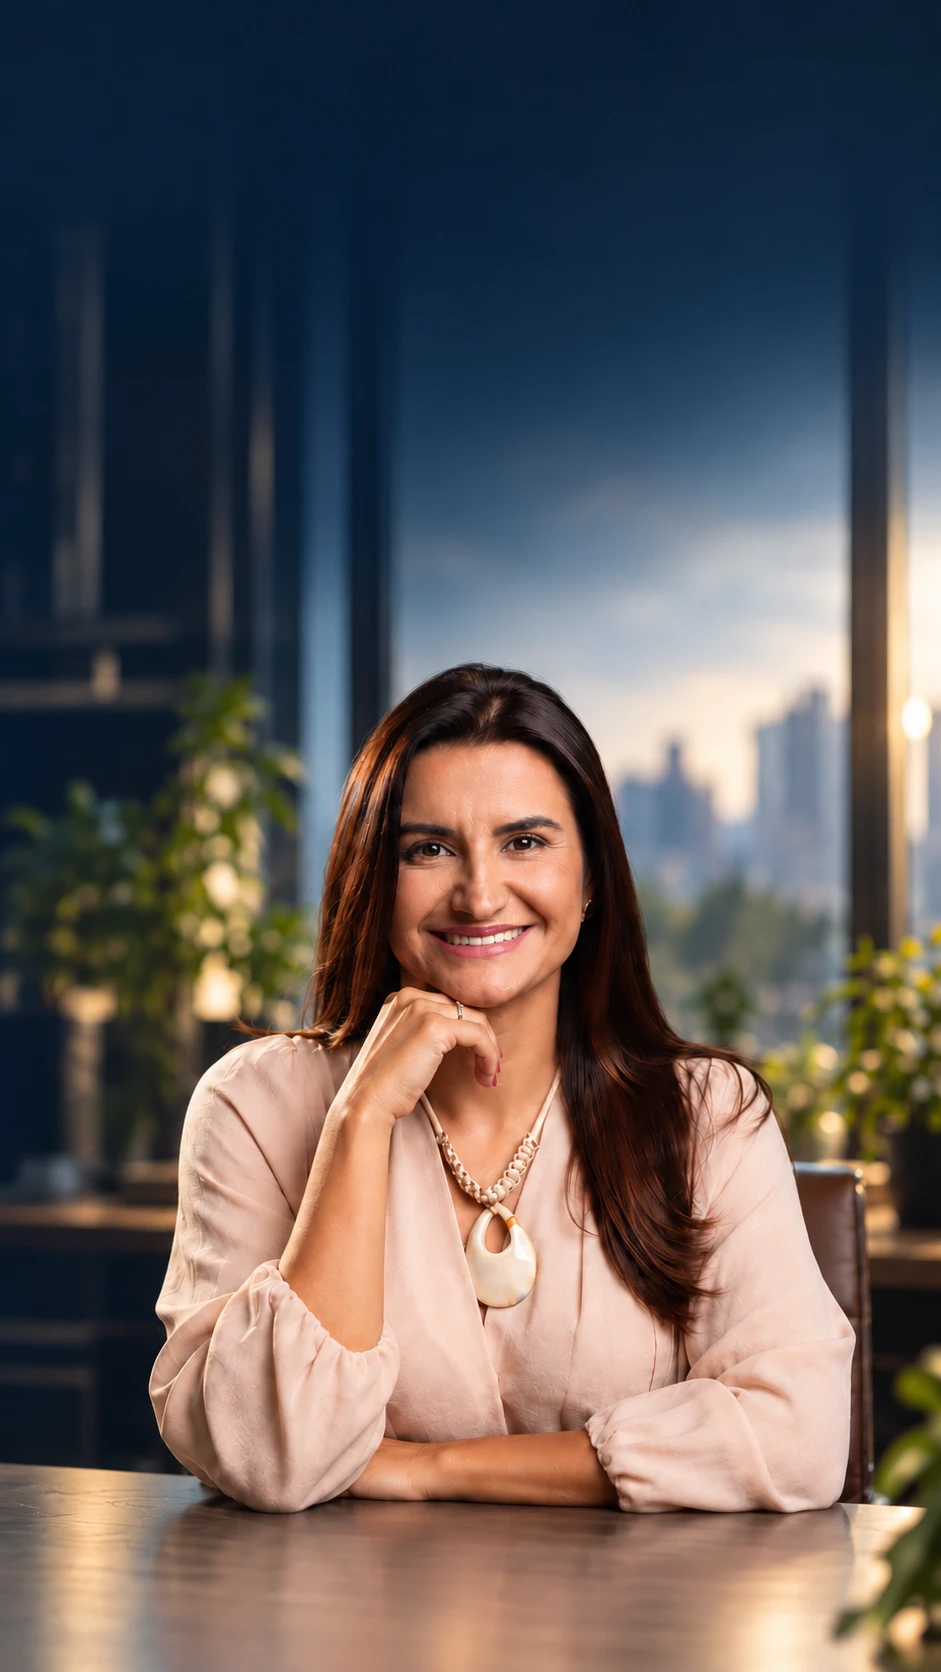
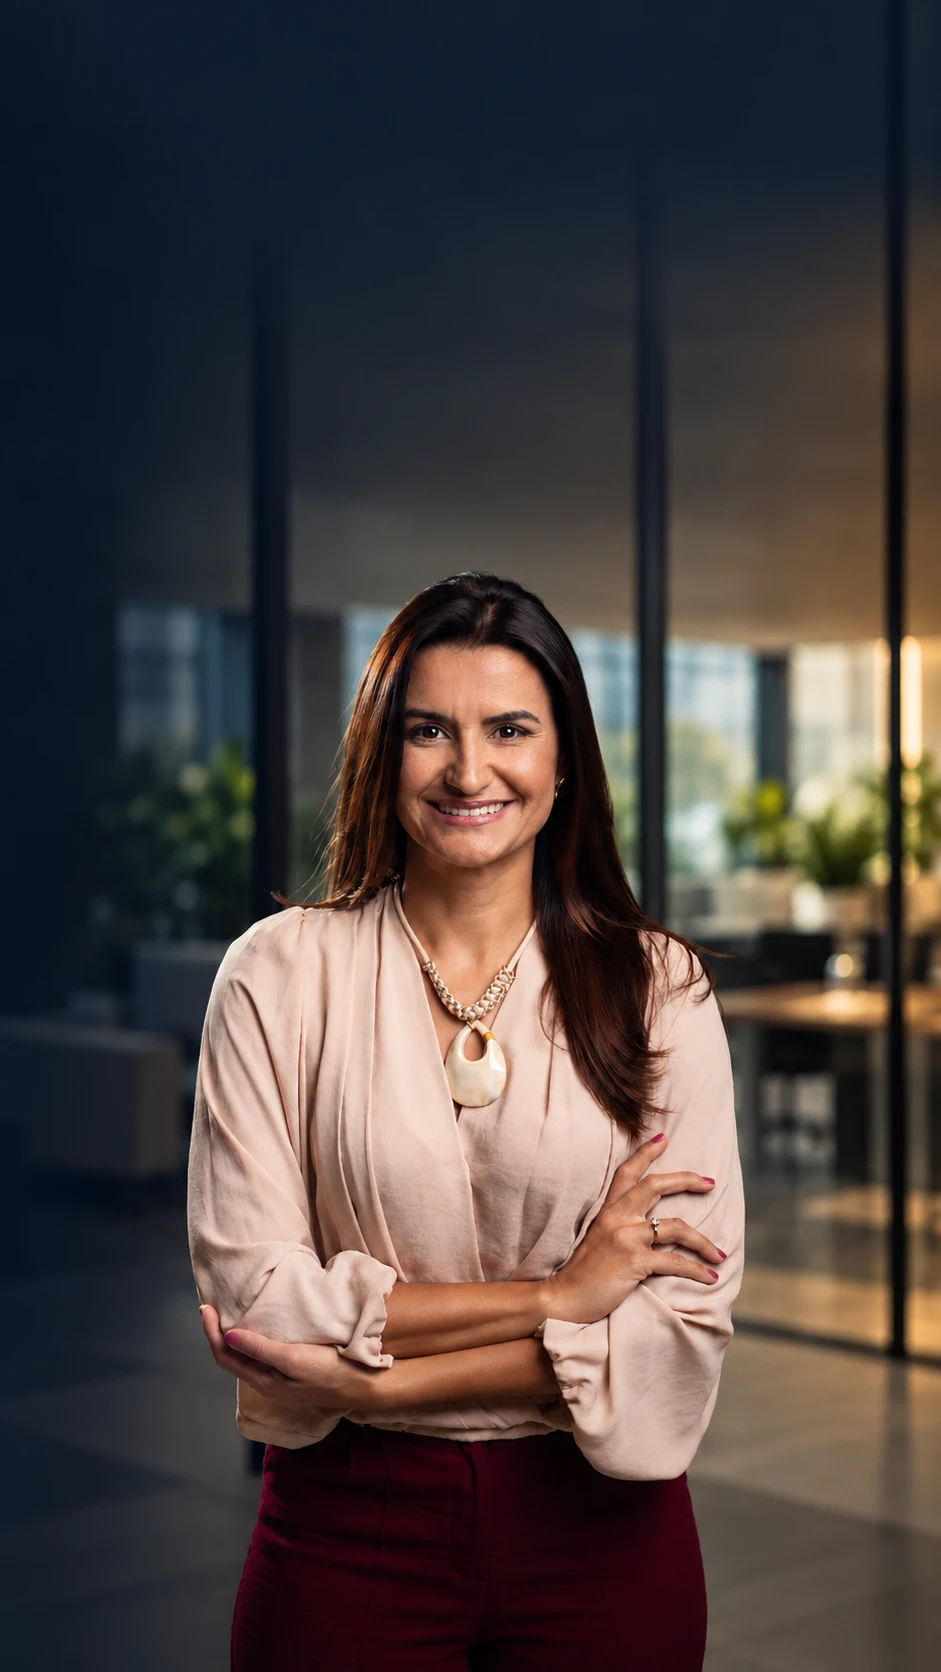
Hero mobile: nova foto, rosto livre de texto e título proporcional à tela
- Troca public/images/hero-mobile.webp pela foto nova (941x1672).
- A foto começa logo abaixo do subtítulo (medido por offset) e o topo vazio dela
  é cortado, com degradê na emenda. Se a tela for baixa demais, o hero cresce e
  o sticky só trava quando o fundo encosta no fim da tela, para os botões
  continuarem alcançáveis. Nada fica sobre o rosto.
- Título: fonte proporcional à largura ((100vw - 3rem) / 8,3, entre 1,9rem e
  3,4rem), preenchendo a linha mais longa; cinco linhas em todas as larguras.
- Desktop: card "Mais de 20 anos" menor (240px, 4 linhas, fonte e padding
  reduzidos). Imagem e enquadramento do desktop seguem como estavam.

diff --git a/components/Hero.tsx b/components/Hero.tsx
@@ -1,6 +1,7 @@
 "use client";
 
 import { motion, useScroll, useTransform } from "motion/react";
+import { useEffect, useRef, useState } from "react";
 import { hero, whatsappHref } from "@/lib/content";
 import Button from "./Button";
 import { useReady } from "./Providers";
@@ -14,13 +15,48 @@ export default function Hero() {
   const textY = useTransform(scrollY, [0, 700], [0, -60]);
   const fade = useTransform(scrollY, [0, 600], [1, 0.15]);
 
+  // Mobile: texto no topo, rosto no meio e botões embaixo, sem nada sobre o rosto. A foto começa logo abaixo
+  // do subtítulo (medido com offset, que ignora o transform do scroll); se a tela for baixa demais para o
+  // conjunto, o hero cresce (`need`) e o sticky só trava quando o fundo dele encosta no fim da tela.
+  const subRef = useRef<HTMLDivElement>(null);
+  const ctaRef = useRef<HTMLDivElement>(null);
+  const [fit, setFit] = useState<{ imgTop: number; need: number } | null>(null);
+  useEffect(() => {
+    const sub = subRef.current;
+    const cta = ctaRef.current;
+    const content = sub?.offsetParent as HTMLElement | null;
+    const section = content?.parentElement;
+    if (!sub || !cta || !content || !section) return;
+    const mq = window.matchMedia("(max-width: 767px)");
+    const update = () => {
+      if (!mq.matches) return setFit(null);
+      const imgTop = content.offsetTop + sub.offsetTop + sub.offsetHeight + 16;
+      const head = ((900 - 572) * section.clientWidth) / 941; // do cabelo ao queixo, na escala da foto
+      setFit({ imgTop, need: Math.ceil(Math.max(660, imgTop + head + 20 + cta.offsetHeight + 40)) });
+    };
+    update();
+    const ro = new ResizeObserver(update);
+    ro.observe(sub);
+    ro.observe(content);
+    mq.addEventListener("change", update);
+    document.fonts?.ready.then(update);
+    return () => {
+      ro.disconnect();
+      mq.removeEventListener("change", update);
+    };
+  }, []);
+
   return (
     <section
       id="inicio"
       className="sticky top-0 z-0 h-svh min-h-[660px] overflow-hidden bg-navy text-paper"
+      style={fit ? { minHeight: fit.need, top: `min(0px, calc(100svh - ${fit.need}px))` } : undefined}
     >
       {/* Imagem: abre com zoom-out e cresce de leve ao rolar (sem deslocar, para não expor borda) */}
-      <motion.div style={{ scale: imgScale }} className="absolute inset-x-0 bottom-0 top-[12svh] md:inset-0">
+      <motion.div
+        style={fit ? { scale: imgScale, top: fit.imgTop } : { scale: imgScale }}
+        className="absolute inset-x-0 bottom-0 top-[12svh] overflow-hidden [mask-image:linear-gradient(to_bottom,transparent,#000_16%)] md:inset-0 md:overflow-visible md:[mask-image:none]"
+      >
         <motion.div
           className="absolute inset-0"
           initial={{ scale: 1.16 }}
@@ -32,7 +68,7 @@ export default function Hero() {
             <img
               src="/images/hero-mobile.webp"
               alt="Juliana Diniz, consultora em sustentabilidade e ESG"
-              className="h-full w-full object-cover object-[50%_0%] md:object-[70%_22%]"
+              className="block h-auto w-full max-w-none -translate-y-[33%] md:h-full md:translate-y-0 md:object-cover md:object-[70%_22%]"
               fetchPriority="high"
               width={1672}
               height={941}
@@ -44,7 +80,7 @@ export default function Hero() {
       {/* Leitura do texto: gradiente à esquerda no desktop, embaixo no mobile */}
       <div aria-hidden className="absolute inset-y-0 left-0 hidden w-[68%] bg-linear-to-r from-navy via-navy/55 to-transparent md:block" />
       <div aria-hidden className="absolute inset-x-0 top-0 h-[42%] bg-linear-to-b from-navy/85 via-navy/40 to-transparent md:hidden" />
-      <div aria-hidden className="absolute inset-x-0 bottom-0 h-[38%] bg-linear-to-t from-navy via-navy/65 to-transparent md:h-[28%] md:via-navy/40" />
+      <div aria-hidden className="absolute inset-x-0 bottom-0 h-[11.5rem] bg-linear-to-t from-navy via-navy/65 to-transparent md:h-[28%] md:via-navy/40" />
 
       <motion.div
         style={{ y: textY, opacity: fade }}
@@ -62,19 +98,19 @@ export default function Hero() {
             waitForReady
             delay={0.2}
             highlightClassName="text-sage-300"
-            className="text-balance font-serif text-[clamp(2.2rem,7.6vw,6.2rem)] md:text-[clamp(2.4rem,3.9vw,3.9rem)] leading-[1.04] tracking-[-0.025em]"
+            className="text-balance font-serif text-[clamp(1.9rem,calc((100vw-3rem)/8.3),3.4rem)] md:text-[clamp(2.4rem,3.9vw,3.9rem)] leading-[1.04] tracking-[-0.025em]"
           />
         </div>
 
         {/* Mobile: subtítulo junto do título (grupo único no topo) e CTAs no pé da tela */}
-        <div className="mt-5 md:mt-10 md:max-w-[min(44vw,620px)]">
+        <div ref={subRef} className="mt-5 md:mt-10 md:max-w-[min(44vw,620px)]">
           <p className="max-w-[34rem] text-[0.92rem] leading-[1.5] text-paper/90 md:text-[1.18rem] md:leading-[1.65]">
             {hero.subtitle}
           </p>
         </div>
 
         <Reveal waitForReady delay={0.4} className="mt-auto pt-5 md:mt-10 md:pt-0">
-          <div className="flex flex-col gap-3 sm:flex-row">
+          <div ref={ctaRef} className="flex flex-col gap-3 sm:flex-row">
             <Button href={whatsappHref}>{hero.cta}</Button>
             <Button href="#solucoes" variant="outline">
               {hero.ctaSecondary}
@@ -84,10 +120,10 @@ export default function Hero() {
       </motion.div>
 
       {/* Destaque de credibilidade: só no desktop, à direita da foto */}
-      <Reveal waitForReady delay={0.5} y={10} className="absolute right-12 top-[30%] z-10 hidden w-[min(18vw,280px)] md:block">
-        <div className="flex gap-5 rounded-[1.25rem] border border-paper/15 bg-navy/55 p-6 shadow-[0_20px_60px_-20px_rgba(0,0,0,0.5)] backdrop-blur-md lg:p-7">
+      <Reveal waitForReady delay={0.5} y={10} className="absolute right-12 top-[30%] z-10 hidden w-[min(17vw,240px)] md:block">
+        <div className="flex gap-4 rounded-[1rem] border border-paper/15 bg-navy/55 p-4 shadow-[0_20px_60px_-20px_rgba(0,0,0,0.5)] backdrop-blur-md lg:p-5">
           <span aria-hidden className="w-0.5 shrink-0 bg-sage-300" />
-          <p className="font-serif text-[clamp(1.15rem,1.7vw,1.6rem)] leading-snug text-paper">{hero.credibility}</p>
+          <p className="font-serif text-[clamp(0.95rem,1.15vw,1.15rem)] leading-snug text-paper">{hero.credibility}</p>
         </div>
       </Reveal>
 
